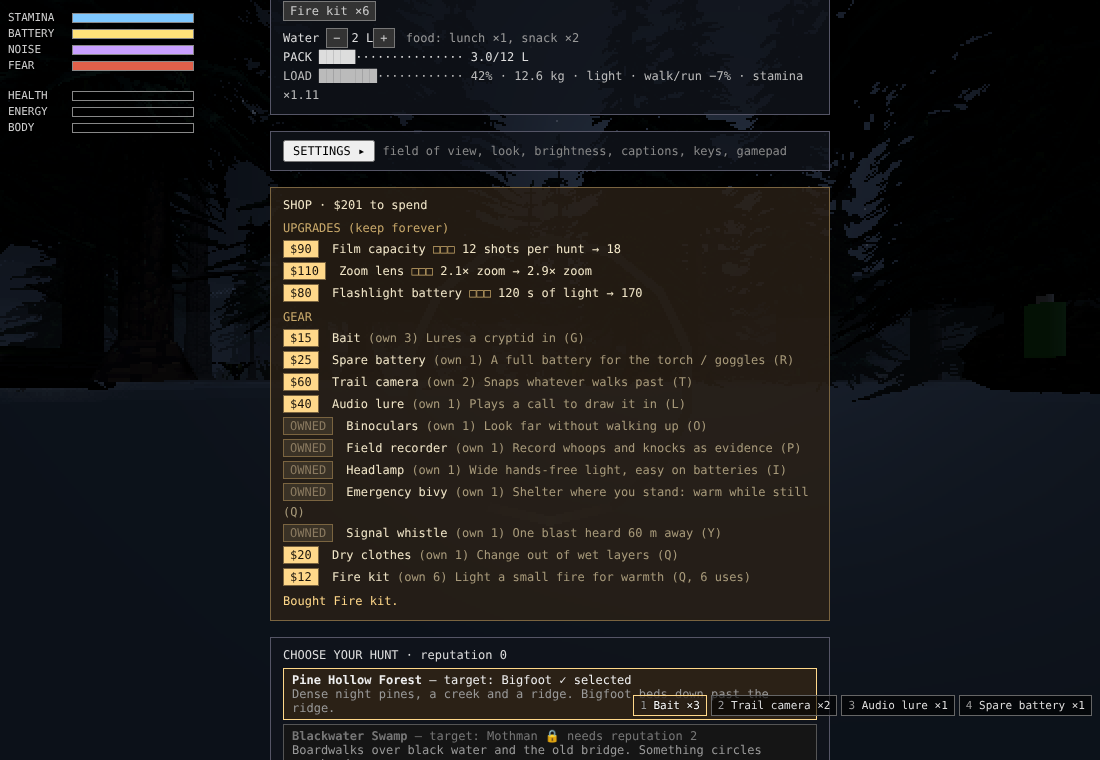
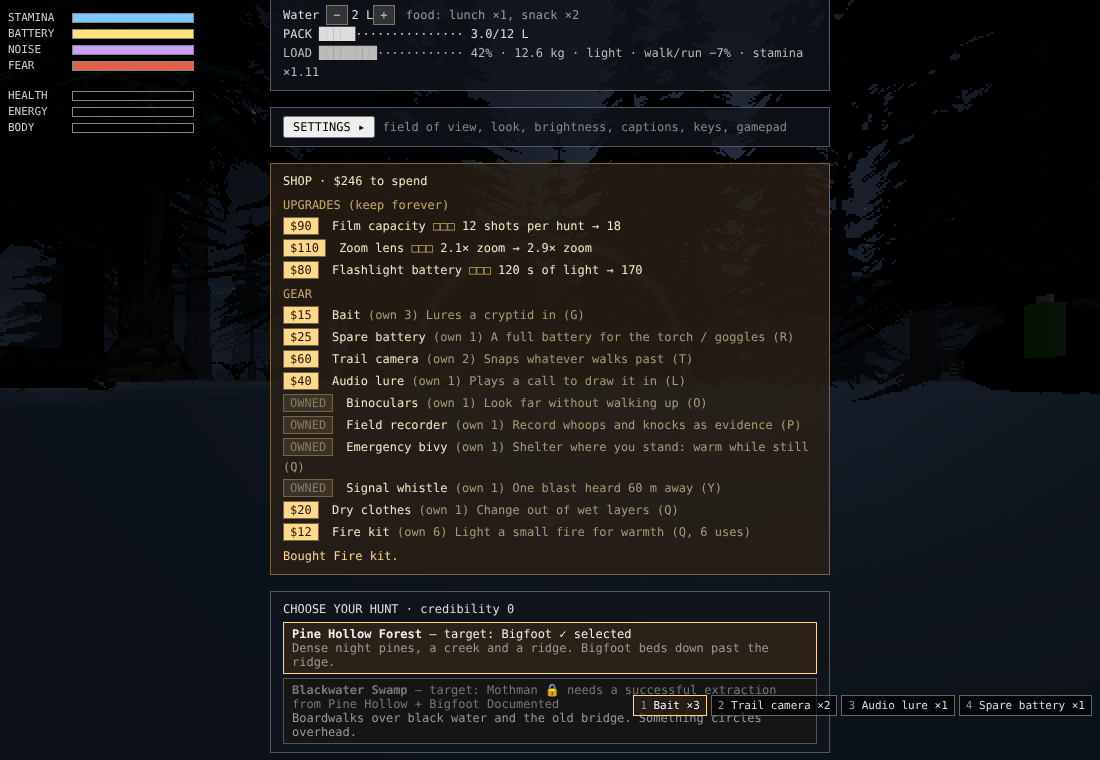
#87: headlamp left to the #88 supplier; check script; report
Claude-Session: https://claude.ai/code/session_0163yRzLCrst6QKZAZ52itsT

Changed region(s): [[0.2473, 0.0, 0.8036, 0.9987], [0.8655, 0.1211, 0.8964, 0.1513], [0.8036, 0.1211, 0.8345, 0.1513]]

diff --git a/.ballast/reports/t87.md b/.ballast/reports/t87.md
@@ -3,11 +3,11 @@ Added the GDD's early-level personal gear that wasn't in the game. Each item has
 - Binoculars (O): a narrow, magnified view through an eyepiece mask; raising the camera lowers them. They prove nothing by themselves.
 - Signal whistle (Y): one blast heard about 60 m away. Bigfoot comes to check out the noise.
 - Field recorder (P): while it runs, nearby whoops and wood knocks become sellable acoustic recordings. Quality is better closer and when you're quiet.
-- Headlamp (I): wider, dimmer, shorter-reaching light that's easier on the battery.
 - From a quick slot with Q: an emergency bivy (shelter and warmth while you stay put; moving packs it away), dry clothes (stand still a few seconds and your wetness is gone) and a fire kit (6 small fires that warm you and burn out after a few minutes).
-The starter kit now includes dry clothes and a whistle; the rest is in the base-camp shop, and gear you keep can only be bought once. How to see it: `npm run check:t87` (11/11 PASS) buys the kit, uses every item with its real key and sells a recording; captures are in `.ballast/media/t87/`.
-Assumptions: "every listed gear item" is scoped to personal gear for levels 01–03 that Pine Hollow's systems can use. Map, compass, first aid, food, the sample pouch, the casting kit, vials and trail cameras were already in.
-Left out for now: thirst items (canteen, water purification) because there's no thirst system yet; tent, sleeping bag and cookware because there's no sleep or cooking; and later-level gear (boats, power, capture, security). The headlamp still shows the hand torch in your hand.
+The starter kit now includes dry clothes and a whistle; the rest is in the base-camp shop, and gear you keep can only be bought once. How to see it: `npm run check:t87` (10/10 PASS) buys the kit, uses every item with its real key and sells a recording; captures are in `.ballast/media/t87/`.
+Assumptions: "every listed gear item" is scoped to personal gear for levels 01–03 that Pine Hollow's systems can use. Map, compass, first aid, the headlamp (now worn gear from the #88 supplier), food, the sample pouch, the casting kit, vials and trail cameras were already in.
+Left out for now: thirst items (canteen, water purification) because there's no thirst system yet; tent, sleeping bag and cookware because there's no sleep or cooking; and later-level gear (boats, power, capture, security).
+Already failing on main, not caused by this change: t84's snapped-branch photo. Since #85, a photographed clue must be clearly in frame and unblocked, and the trunk behind a snapped branch counts as blocking it.
 PR: (pending)
 
 ## Questions
